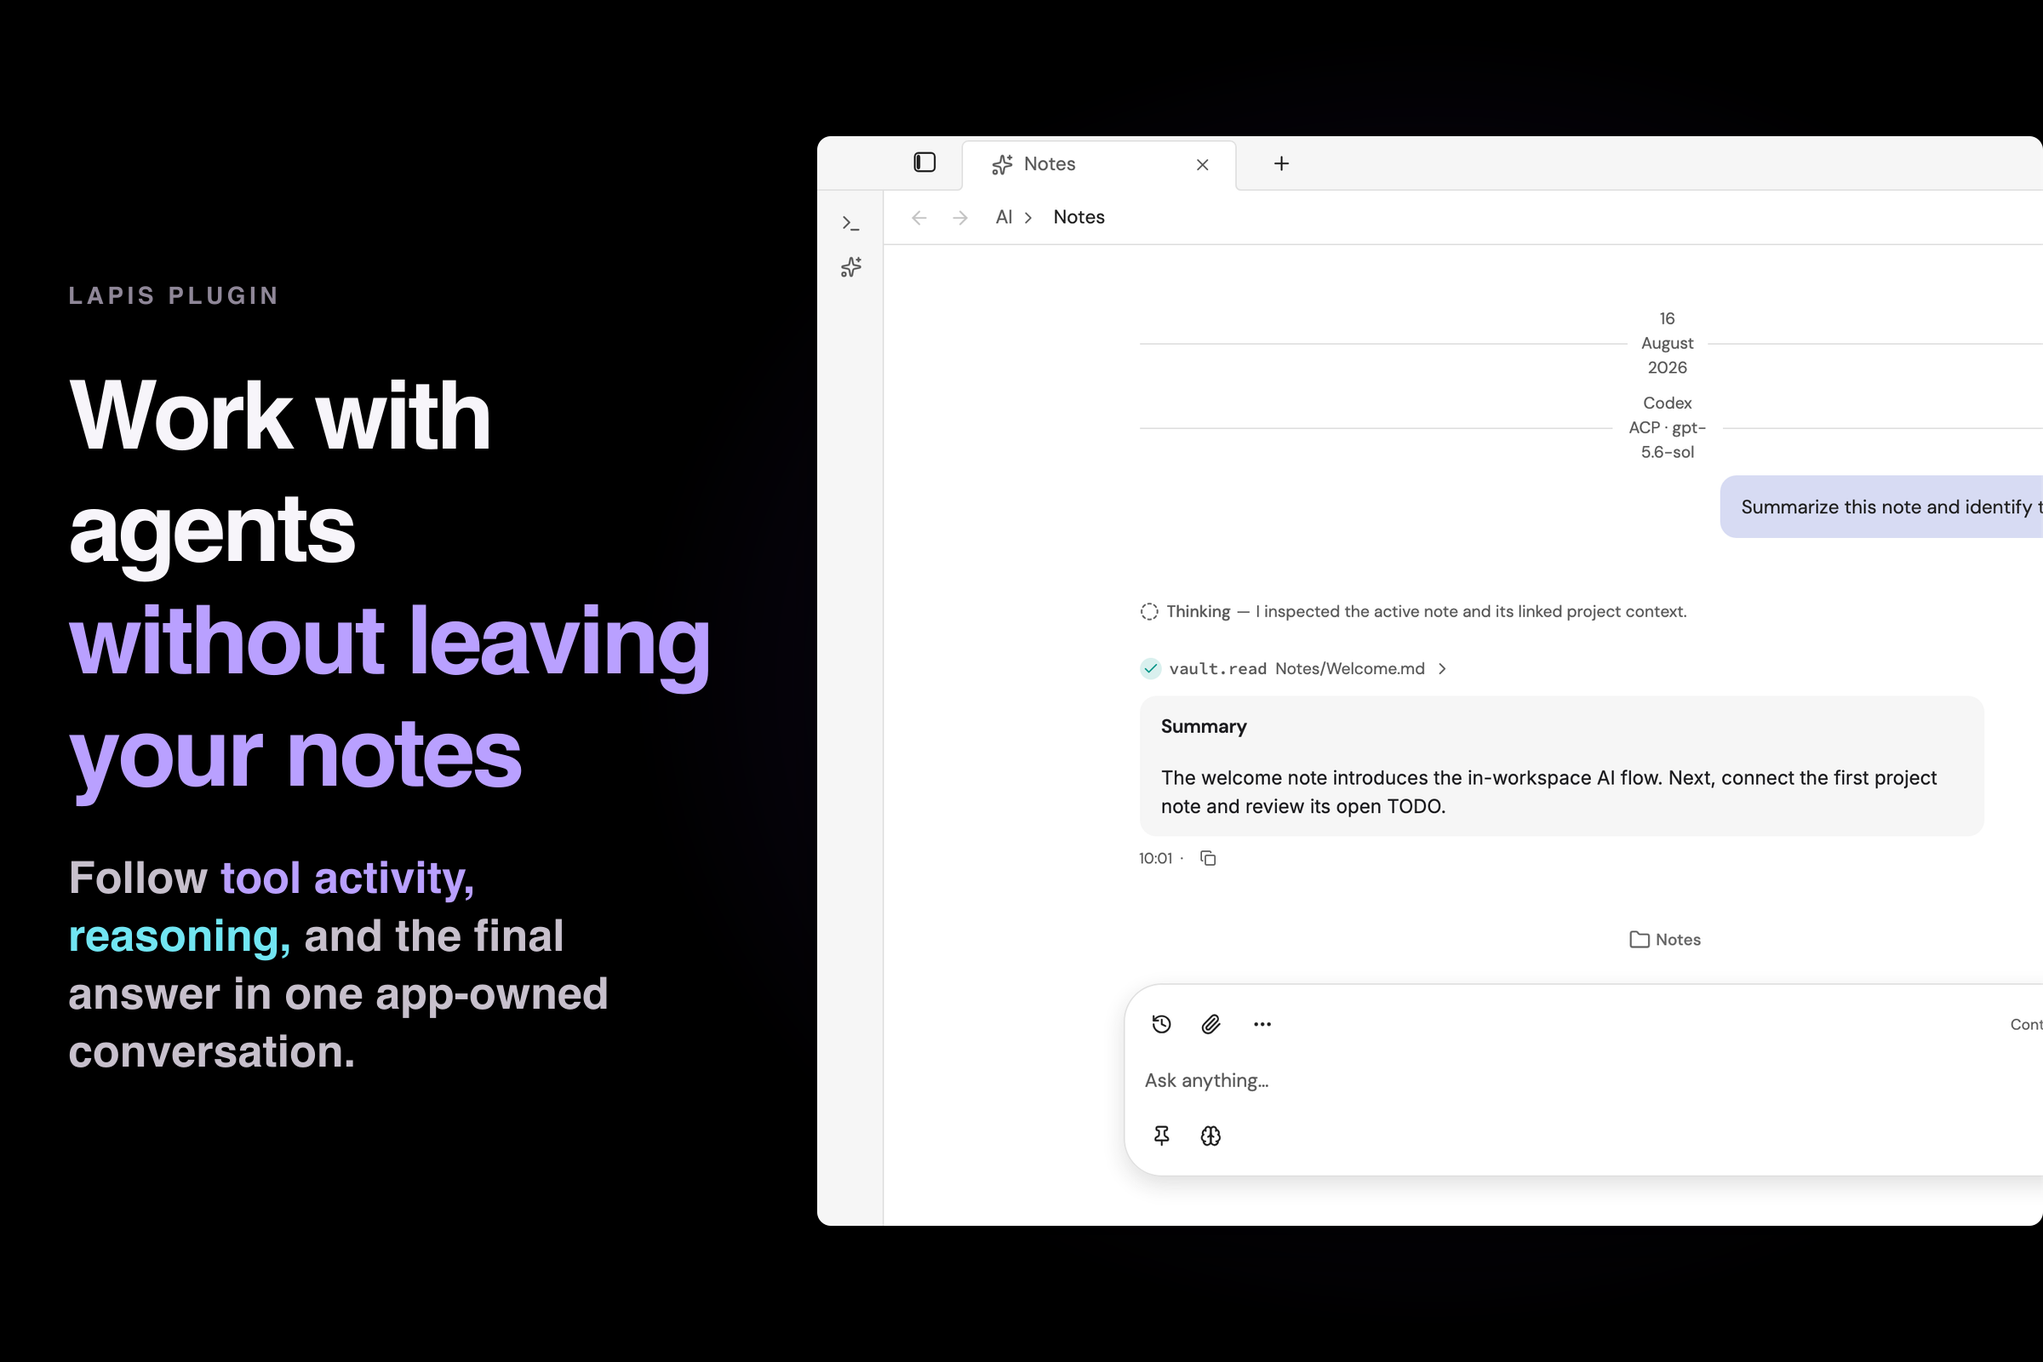
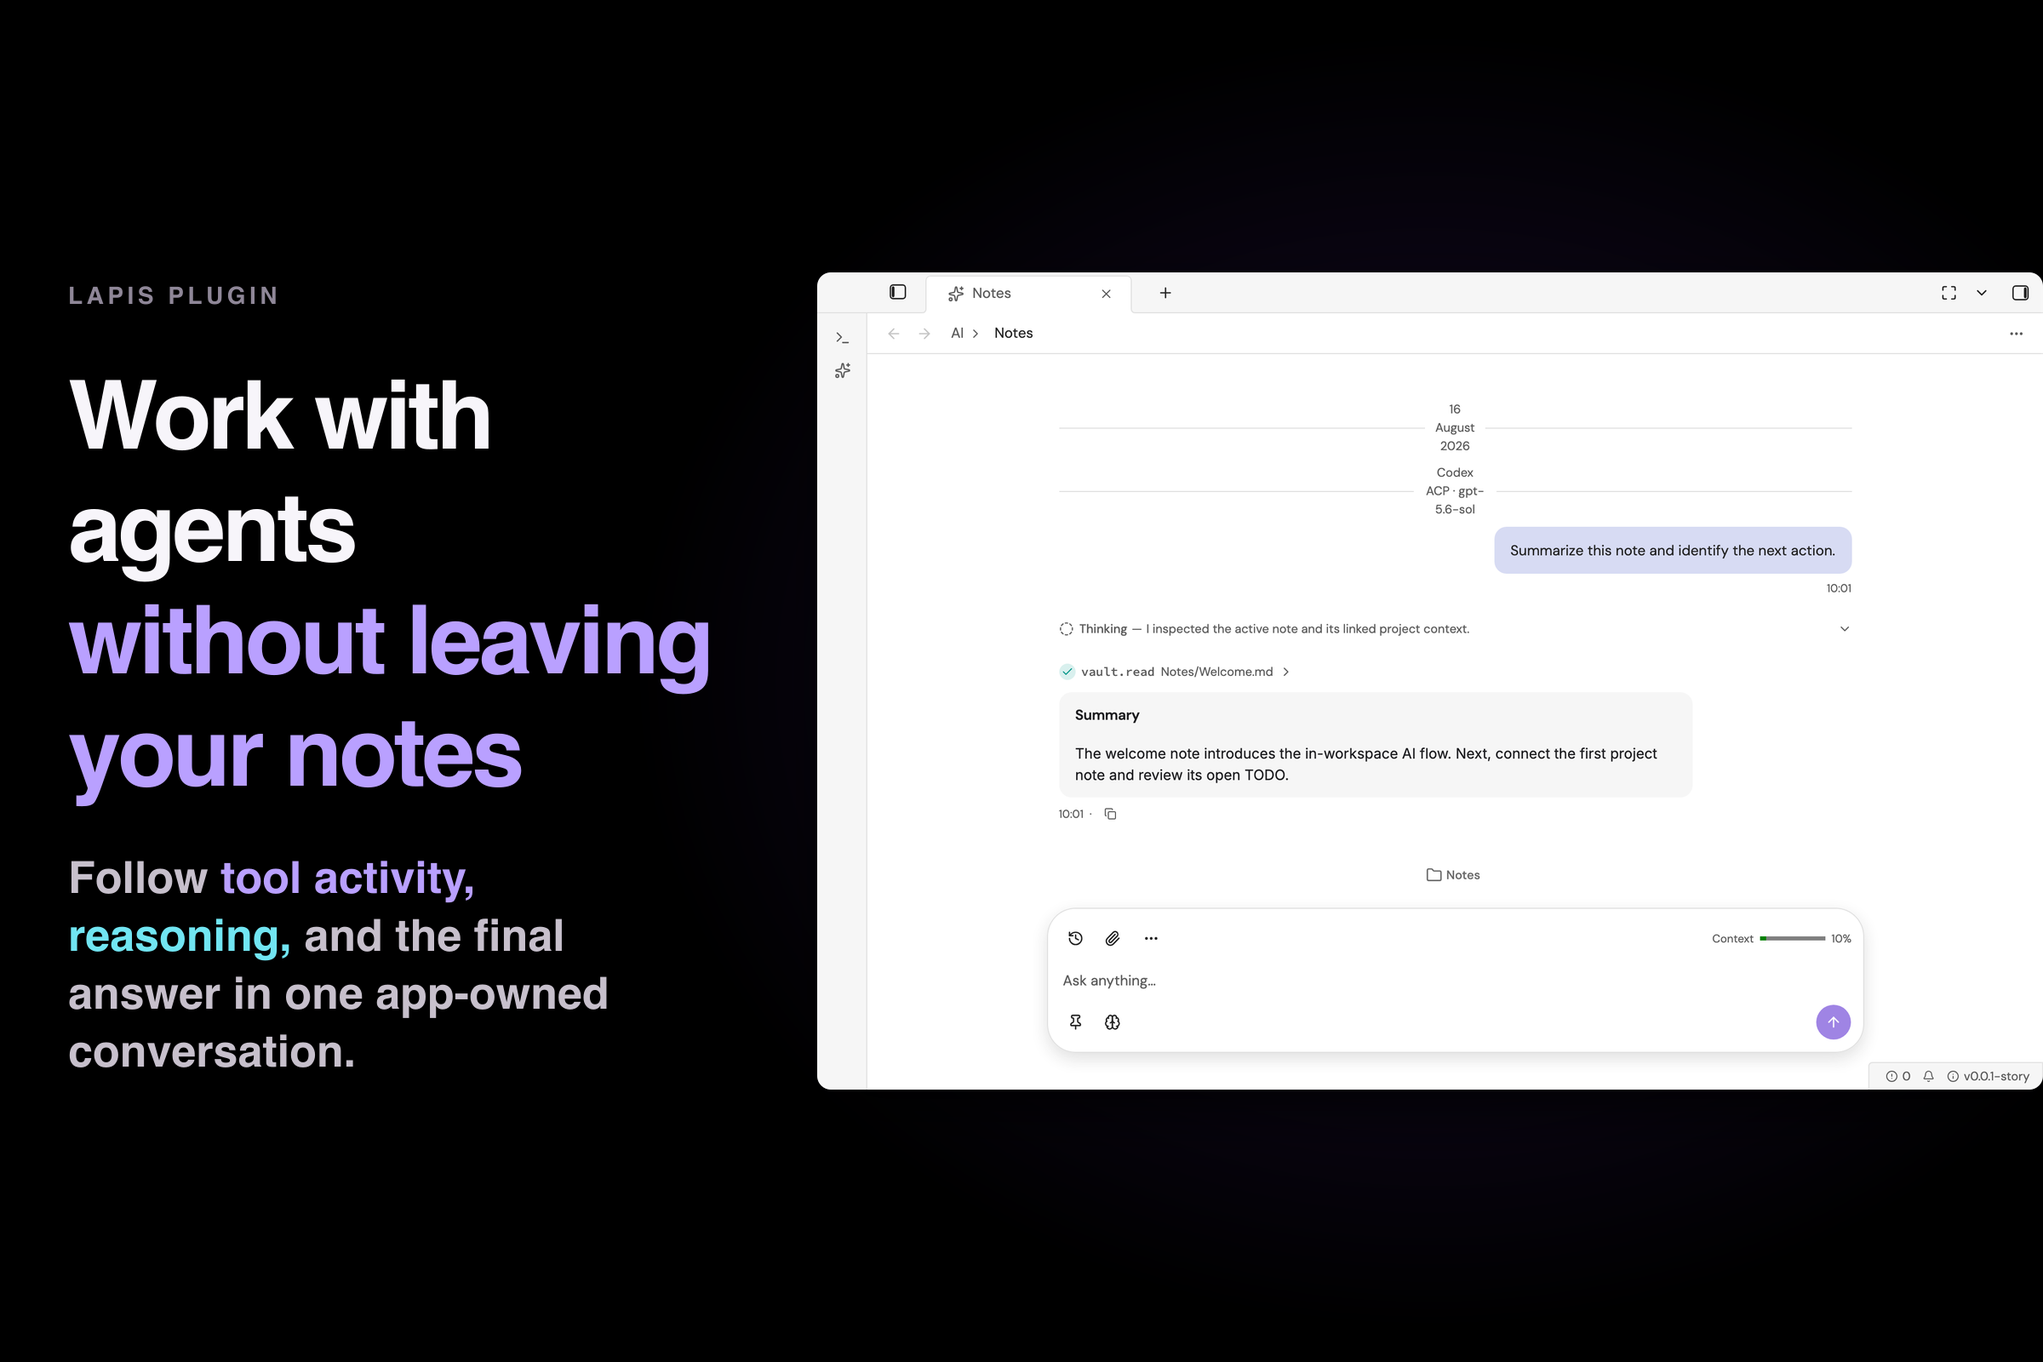
fix(registry): preserve full-shell media

diff --git a/spec/src/distribution.md b/spec/src/distribution.md
@@ -25,7 +25,7 @@
 | LP-SPEC-028 | Full all-plugin release preparation MUST remove stale generated plugin archive directories before signing the current eleven-version candidate set. A focused single-plugin build MAY preserve other current candidates, but verification of the full set MUST never scan archives produced by a prior signing key or version.                                                                                                                                                                                                                                                                                                                                                                                         |
 | LP-SPEC-029 | Release versioning MUST preserve Changesets-generated package history and append the candidate entry. Documentation synchronization MUST NOT regenerate or overwrite package `CHANGELOG.md` files.                                                                                                                                                                                                                                                                                                                                                                                                                                                                                                                     |
 | LP-SPEC-030 | Every first-party `registry.json` MUST define an allowlisted semantic icon and six-digit accent colour. It MAY define a square logo under `registry-assets/`; the package audit MUST reject unsafe paths, missing assets, unsupported image formats, unsafe SVG content, and invalid dimensions. Registry automation MUST hash and mirror supplied logos, and clients MUST retain the icon-and-accent fallback.                                                                                                                                                                                                                                                                                                        |
-| LP-SPEC-031 | Every first-party plugin MUST provide one to five deterministic 3:2 registry cards under `registry-assets/`. Each card MUST declare one fixed Storybook story, bounded alt and marketing copy, an allowlisted text palette and crop, and 1200x800 preview plus 2400x1600 full lossless-WebP outputs. Capture MUST use the shared Visual Delta browser API at a 1200x800 CSS viewport and 2x device scale, MUST reject stale or upscaled artifacts, and MUST NOT create or approve Visual Delta baselines. Governed source stories MUST remain under the owning plugin's `Registry Screenshots` section with `registry-media` and `visual-pending` tags.                                                                                                                                                           |
+| LP-SPEC-031 | Every first-party plugin MUST provide one to five deterministic 3:2 registry cards under `registry-assets/`. Each card MUST declare one fixed Storybook story, bounded alt and marketing copy, an allowlisted text palette and crop, and 1200x800 preview plus 2400x1600 full lossless-WebP outputs. Capture MUST use the shared Visual Delta browser API at a 1200x800 CSS viewport and 2x device scale, MUST reject stale or upscaled artifacts, and MUST NOT create or approve Visual Delta baselines. A `full-shell` composition MUST preserve both horizontal edges of the complete 3:2 capture; focused presets MAY cover-crop only to their declared subject. Governed source stories MUST remain under the owning plugin's `Registry Screenshots` section with `registry-media` and `visual-pending` tags.                                                                                  |
 | LP-SPEC-032 | Every first-party manifest MUST declare `isDesktopOnly` explicitly. Release compatibility MUST use only `web` and `desktop`: desktop-only plugins emit `desktop`, while portable plugins emit both values. Electron runtime-host terminology MUST NOT appear as a registry platform.                                                                                                                                                                                                                                                                                                                                                                                                                                   |
 | LP-SPEC-033 | Every first-party `registry.json` MUST source its Overview from `registry-content/overview.md`. The Overview MUST describe end-user plugin behavior and MUST NOT include package-manager installation or static-composition instructions; package READMEs remain the source for developer integration.                                                                                                                                                                                                                                                                                                                                                                                                                 |
 | LP-SPEC-034 | The shared Storybook interaction gate MUST treat Svelte's `derived_inert` runtime warning as fatal whether it is emitted through `console.warn` or `console.error`, while leaving unrelated diagnostics unchanged. The warning classifier MUST have focused regression coverage and the browser suite MUST exit non-zero whenever the warning is observed.                                                                                                                                                                                                                                                                                                                                                             |

diff --git a/spec/src/verification.md b/spec/src/verification.md
@@ -26,7 +26,7 @@ and records repository-level extraction and release gates.
 | LP-SPEC-028  | distribution                          | Implemented | Release-output filesystem tests prove full preparation deletes stale signed bundles while focused single-plugin preparation preserves other generated candidates.                                                                                                                                                                                                                             |
 | LP-SPEC-029  | distribution                          | Implemented | Documentation-sync regression coverage proves a write refresh leaves the Changesets-owned package changelog byte-for-byte unchanged.                                                                                                                                                                                                                                                          |
 | LP-SPEC-030  | distribution                          | Implemented | Package metadata audit validates allowlisted icons, accents, safe optional logo paths, formats, dimensions, and SVG safety; registry contract tests cover hash-addressed mirroring and icon fallback.                                                                                                                                                                                         |
-| LP-SPEC-031  | distribution                          | Implemented | Fixed `Registry Screenshots` stories feed Visual Delta 2x viewport capture and deterministic card composition; governed inventory includes asserted focus-mode, populated sidebar, open-filter, provider-isolated diagnostics, source-stabilized Problems data, and retained action-popover states; metadata and media checks verify both WebP variants, fixed palette/crops, exact artifacts, and unchanged Visual Delta baselines.                                                                                                                                                           |
+| LP-SPEC-031  | distribution                          | Implemented | Fixed `Registry Screenshots` stories feed Visual Delta 2x viewport capture and deterministic card composition; governed inventory includes asserted focus-mode, populated sidebar, open-filter, provider-isolated diagnostics, source-stabilized Problems data, and retained action-popover states; metadata and media checks verify both WebP variants, fixed palette/crops, exact artifacts, full-shell horizontal-edge preservation, and unchanged Visual Delta baselines.                                                                                                                      |
 | LP-SPEC-032  | distribution                          | Implemented | Package-boundary and release-contract checks require explicit first-party platform intent and verify that generated compatibility uses only `web` and `desktop`.                                                                                                                                                                                                                              |
 | LP-SPEC-033  | distribution                          | Implemented | All eleven registry metadata files point to dedicated package-owned Overview Markdown; the metadata audit rejects alternate paths and package installation commands.                                                                                                                                                                                                                          |
 | LN-AI-001    | ai-plugin                             | Implemented | package location, runtime ID `ai`, bundled default-enabled registration                                                                                                                                                                                                                                                                                                                       |

diff --git a/spec/src/registry-media.md b/spec/src/registry-media.md
@@ -90,10 +90,12 @@ reference, with heavier and slightly larger headline and supporting copy. A
 fixed black canvas and allowlisted palette preserve inline description colours
 while wrapping deterministically. The complete copy block is vertically
 centred, with a deliberate visual gap between the eyebrow and headline. Copy
-always occupies the left region, while the captured product surface occupies
-the right at approximately four-fifths of the card height. Composition applies
-the declared crop without upscaling, keeps screenshot framing intentionally
-tight, and emits a 2400x1600 lossless-WebP full image. The
+always occupies the left region. A `full-shell` card fits the complete 3:2
+capture into a 1440x960 frame on the right and MUST preserve both horizontal
+edges without cover cropping. Focused sidebar, status, and custom presets use a
+taller 1440x1280 frame and MAY cover-crop to the declared subject. Composition
+applies the declared crop without upscaling, keeps screenshot framing
+intentionally tight, and emits a 2400x1600 lossless-WebP full image. The
 1200x800 lossless-WebP preview is downscaled from that full image. Text or image
 overflow, unexpected dimensions, unsafe paths, missing tags, and stale bytes
 are failures.

diff --git a/spec/src/spec-governance.md b/spec/src/spec-governance.md
@@ -31,6 +31,9 @@ Tracked registry-media guidance and the canonical registry-media chapter MUST
 stay aligned on story naming, capture density, authored data, generation
 commands, source-specific diagnostic isolation, production-compatible browser
 shims, final-state assertions, and baseline policy.
+Shared full-shell framing changes MUST preserve the complete 3:2 source capture
+and prove both horizontal edges remain in the composed output; subject-focused
+presets retain their explicitly bounded crop.
 Registry platform generation and dedicated Overview-content auditing are
 protected by LP-SPEC-032 and LP-SPEC-033. Shared manifest normalization,
 release compatibility, package-file, and registry metadata checks map to

diff --git a/spec/src/plugins/graph/index.md b/spec/src/plugins/graph/index.md
@@ -8,6 +8,8 @@ LP-SPEC-030 and LP-SPEC-031. Governed `Registry Screenshots` stories cover a
 focused Global Graph with a richly connected note, tag, attachment, and
 unresolved-link network plus its populated Local Graph sidebar; both stay
 `visual-pending` until separate visual approval.
+The Global Graph card preserves the complete full-shell capture, while Local
+Graph retains its declared sidebar-focused crop.
 Graph captures MUST wait for the loading status to clear, the canvas to be
 visible, and the deterministic node/link inventory to be populated. The Local
 Graph capture additionally waits for its final focused layout paint after

diff --git a/spec/src/plugins/markdown-lint/index.md b/spec/src/plugins/markdown-lint/index.md
@@ -9,6 +9,8 @@ real Markdownlint editor diagnostics with a populated Problems panel while both
 sidebars are hidden, and stays `visual-pending` until separate visual approval.
 The shared registry fixture MUST retain the source-specific editor and Problems
 diagnostics through settled capture readiness.
+Its generated card preserves the complete full-shell capture so the editor and
+Problems surface remain visible from edge to edge.
 
 `@lapis-notes/markdown-lint` adapts open Markdown document diagnostics into the
 shared Problems infrastructure. Language-service, Problems panel, desktop

diff --git a/spec/src/plugins/spellcheck/index.md b/spec/src/plugins/spellcheck/index.md
@@ -10,6 +10,8 @@ the diagnostic action popover held open; both hide the sidebars and stay
 `visual-pending` until separate visual approval.
 The shared registry fixture MUST preserve Harper diagnostics after provider
 settling, and the popover story MUST assert the authored open action state.
+Both generated cards preserve the complete full-shell capture so diagnostics
+and the action popover remain visible from edge to edge.
 
 Canonical daily notes use the same Markdown spellcheck pipeline as other
 notes. Spellcheck does not participate in daily-document resolution or Tasks

diff --git a/spec/src/plugins/markdown/index.md b/spec/src/plugins/markdown/index.md
@@ -9,6 +9,8 @@ Preview beside the right Outline, Source beside right File Properties, Reading,
 and Backlinks; all stay `visual-pending` until separate visual approval.
 Each capture MUST assert its final editor mode and adjacent panel before the
 shared readiness marker permits media generation.
+Reading preserves the complete full-shell capture, while the editor-and-panel
+cards retain their declared right-sidebar crops.
 
 Daily notes remain ordinary authoritative Markdown documents. The Markdown
 plugin parses and edits them through its existing file surfaces while the

diff --git a/spec/src/plugins/ai/index.md b/spec/src/plugins/ai/index.md
@@ -9,6 +9,8 @@ focused chat with tool activity, History, and Catalog; all stay
 `visual-pending` until separate visual approval.
 Capture readiness keeps the completed tool activity visible and asserts the
 focused transcript state before media generation begins.
+The focused chat uses the uncropped full-shell composition so the complete
+workspace, composer, and right edge remain visible in the generated card.
 
 `@lapis-notes/ai` owns the provider-agnostic agent runtime, session control,
 normalized events, and the movable chat panel. Domain plugins may register

diff --git a/spec/src/plugins/bases/index.md b/spec/src/plugins/bases/index.md
@@ -8,6 +8,8 @@ LP-SPEC-030 and LP-SPEC-031. Governed `Registry Screenshots` stories cover
 focused Filter options, Cover cards with real artwork, and a Grouped List with
 its grouping controls open; all stay `visual-pending` until separate visual
 approval.
+All three focused views use the uncropped full-shell composition so their
+complete workspace width remains visible in the generated cards.
 
 The package consumes the published Design Core semver contract. Runtime and
 tests MUST NOT depend on a sibling-repository path or a workspace `link:`

diff --git a/spec/src/plugins/history/index.md b/spec/src/plugins/history/index.md
@@ -7,6 +7,8 @@ Registry identity and capture-backed gallery media remain package-owned under
 LP-SPEC-030 and LP-SPEC-031. Governed `Registry Screenshots` stories cover the
 populated local-snapshot History sidebar and Compare view; both stay
 `visual-pending` until separate visual approval.
+Compare preserves the complete full-shell capture, while History retains its
+declared sidebar-focused crop.
 The sidebar capture MUST finish with the authored revision inventory visible
 rather than a transient loading or empty state.
 

diff --git a/spec/src/plugins/source-editor/index.md b/spec/src/plugins/source-editor/index.md
@@ -7,6 +7,8 @@ Registry identity and capture-backed gallery media remain package-owned under
 LP-SPEC-030 and LP-SPEC-031. The governed `Registry Screenshots` story covers
 the JSON editor filling a focused workspace and stays `visual-pending` until
 separate visual approval.
+The generated card preserves the complete full-shell capture so the focused
+editor remains visible from edge to edge.
 Capture readiness MUST assert the populated JSON document and focused workspace
 instead of relying only on shell startup.
 
